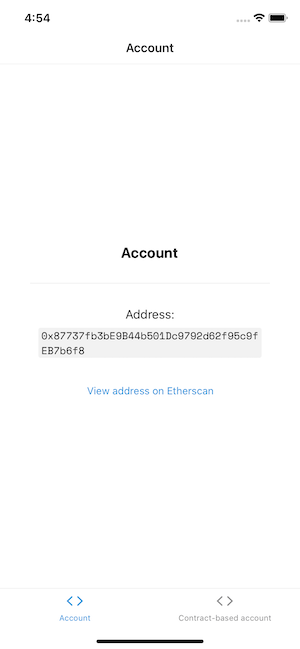
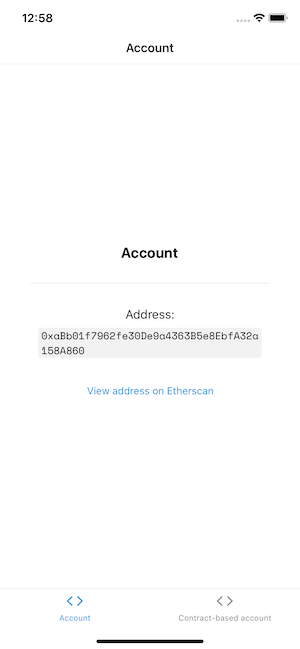
Using same account on contract tab for owner

Changed region(s): [[0.15, 0.4931, 0.87, 0.5547], [0.06, 0.0, 0.18, 0.0308]]

diff --git a/apps/contract-based-account/screens/ContractBasedAccountScreen/ContractBasedAccountScreen.tsx b/apps/contract-based-account/screens/ContractBasedAccountScreen/ContractBasedAccountScreen.tsx
@@ -1,11 +1,14 @@
-import * as React from "react";
+import React, { useContext } from "react";
 import { StyleSheet } from "react-native";
 
 import ContractBasedAccountInfo from "./components/ContractBasedAccountInfo";
+import AccountInfo from "../AccountScreen/components/AccountInfo";
 import { Text, View } from "../../shared/components/Themed";
 
 import { hooks } from "tasit";
 const { useGnosisSafe } = hooks;
+
+import { AccountContext } from "../../context/AccountContext";
 
 import useRandomBytes from "../../hooks/useRandomBytes";
 
@@ -18,6 +21,8 @@ export default function ContractBasedAccountScreen(): JSX.Element {
     // isLoading: isLoadingBytes
   } = useRandomBytes(5);
 
+  const [account] = useContext(AccountContext);
+
   const isLoadingBytes = randomBytes.length === 0;
 
   const {
@@ -25,7 +30,7 @@ export default function ContractBasedAccountScreen(): JSX.Element {
     hasError,
     // isLoading: isLoadingSafe
   } = useGnosisSafe(
-    ["0x80F8f3629b58b0b2873c6424cDe17540F645df16"], // TODO: Use address from the other screen
+    [account], // TODO: Use address from the other screen
     1,
     randomBytes,
     BASE_URL
@@ -62,6 +67,7 @@ export default function ContractBasedAccountScreen(): JSX.Element {
         lightColor="#eee"
         darkColor="rgba(255,255,255,0.1)"
       />
+      <AccountInfo address={account} />
       <ContractBasedAccountInfo address={address} />
     </View>
   );

diff --git a/apps/contract-based-account/App.tsx b/apps/contract-based-account/App.tsx
@@ -1,12 +1,14 @@
-import { StatusBar } from 'expo-status-bar';
-import React from 'react';
-import { SafeAreaProvider } from 'react-native-safe-area-context';
+import { StatusBar } from "expo-status-bar";
+import React from "react";
+import { SafeAreaProvider } from "react-native-safe-area-context";
 
-import useCachedResources from './hooks/useCachedResources';
-import useColorScheme from './hooks/useColorScheme';
-import Navigation from './navigation';
+import useCachedResources from "./hooks/useCachedResources";
+import useColorScheme from "./hooks/useColorScheme";
+import Navigation from "./navigation";
 
-export default function App() {
+import { AccountContextProvider } from "./context/AccountContext";
+
+export default function App(): JSX.Element | null {
   const isLoadingComplete = useCachedResources();
   const colorScheme = useColorScheme();
 
@@ -14,10 +16,12 @@ export default function App() {
     return null;
   } else {
     return (
-      <SafeAreaProvider>
-        <Navigation colorScheme={colorScheme} />
-        <StatusBar />
-      </SafeAreaProvider>
+      <AccountContextProvider>
+        <SafeAreaProvider>
+          <Navigation colorScheme={colorScheme} />
+          <StatusBar />
+        </SafeAreaProvider>
+      </AccountContextProvider>
     );
   }
 }

diff --git a/apps/contract-based-account/screens/AccountScreen/AccountScreen.tsx b/apps/contract-based-account/screens/AccountScreen/AccountScreen.tsx
@@ -1,4 +1,4 @@
-import React from "react";
+import React, { useContext } from "react";
 import { StyleSheet } from "react-native";
 
 import AccountInfo from "./components/AccountInfo";
@@ -6,6 +6,8 @@ import { Text, View } from "../../shared/components/Themed";
 
 import { hooks } from "tasit";
 const { useAccount } = hooks;
+
+import { AccountContext } from "../../context/AccountContext";
 
 import useRandomBytes from "../../hooks/useRandomBytes";
 
@@ -16,10 +18,14 @@ export default function AccountScreen(): JSX.Element {
   } = useRandomBytes(16);
   const randomBytesGenerated = randomBytes.length !== 0;
 
+  const [, setAccount] = useContext(AccountContext);
+
   const address = useAccount({
     randomBytes,
     randomBytesGenerated,
   });
+
+  setAccount(address);
 
   // TODO: Put the address in React context for use on other screens
 

diff --git a/apps/contract-based-account/context/AccountContext.tsx b/apps/contract-based-account/context/AccountContext.tsx
@@ -1,0 +1,20 @@
+/* eslint-disable @typescript-eslint/explicit-module-boundary-types */
+/* eslint-disable @typescript-eslint/no-explicit-any */
+import React, { useState, createContext } from "react";
+
+// Create Context Object
+// eslint-disable-next-line @typescript-eslint/no-empty-function
+// export const AccountContext = createContext(["", () => {}]);
+export const AccountContext = createContext([""]);
+
+// Create a provider for components to consume and subscribe to changes
+export const AccountContextProvider = (props: any): JSX.Element => {
+  // eslint-disable-next-line @typescript-eslint/no-explicit-any
+  const [account, setAccount] = useState<any>("");
+
+  return (
+    <AccountContext.Provider value={[account, setAccount]}>
+      {props.children}
+    </AccountContext.Provider>
+  );
+};

diff --git a/apps/contract-based-account/README.md b/apps/contract-based-account/README.md
@@ -1,3 +1,4 @@
 # contract-based account app
 
 ![](docs/images/AccountTab.png)
+![](docs/images/ContractBasedAccountTab.png)
